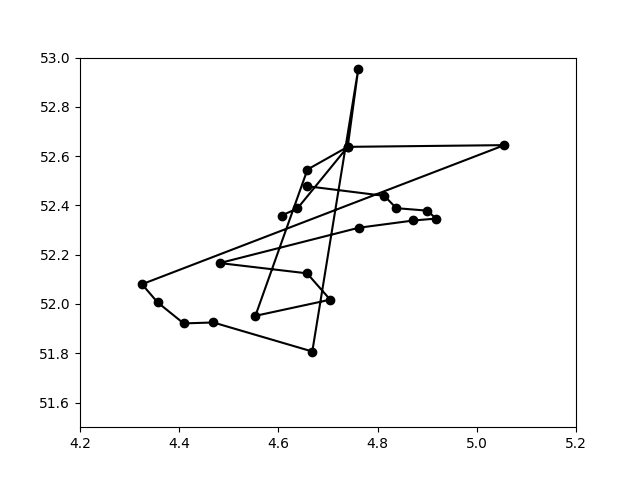
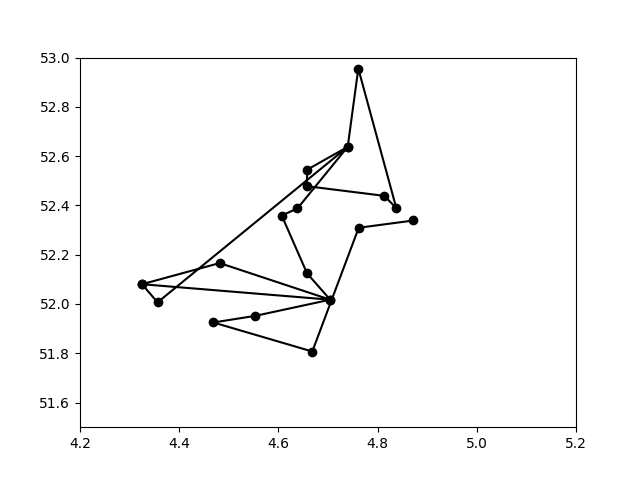
random changes

diff --git a/code/algorithms/random.py b/code/algorithms/random.py
@@ -100,8 +100,11 @@ def get_random_routes(network):
                 counter += 1
 
                 # voeg de route toe aan de dictionary van routes
-                routes_trajecten[counter] = Routes(route)
-                routes_trajecten[counter].add_routes(counter, route)
-                break
+                if route not in routes_trajecten:
+                    routes_trajecten[counter] = Routes(route)
+                    routes_trajecten[counter].add_routes(counter, route)
+                    break
+                else:
+                    break
 
     return routes_trajecten
